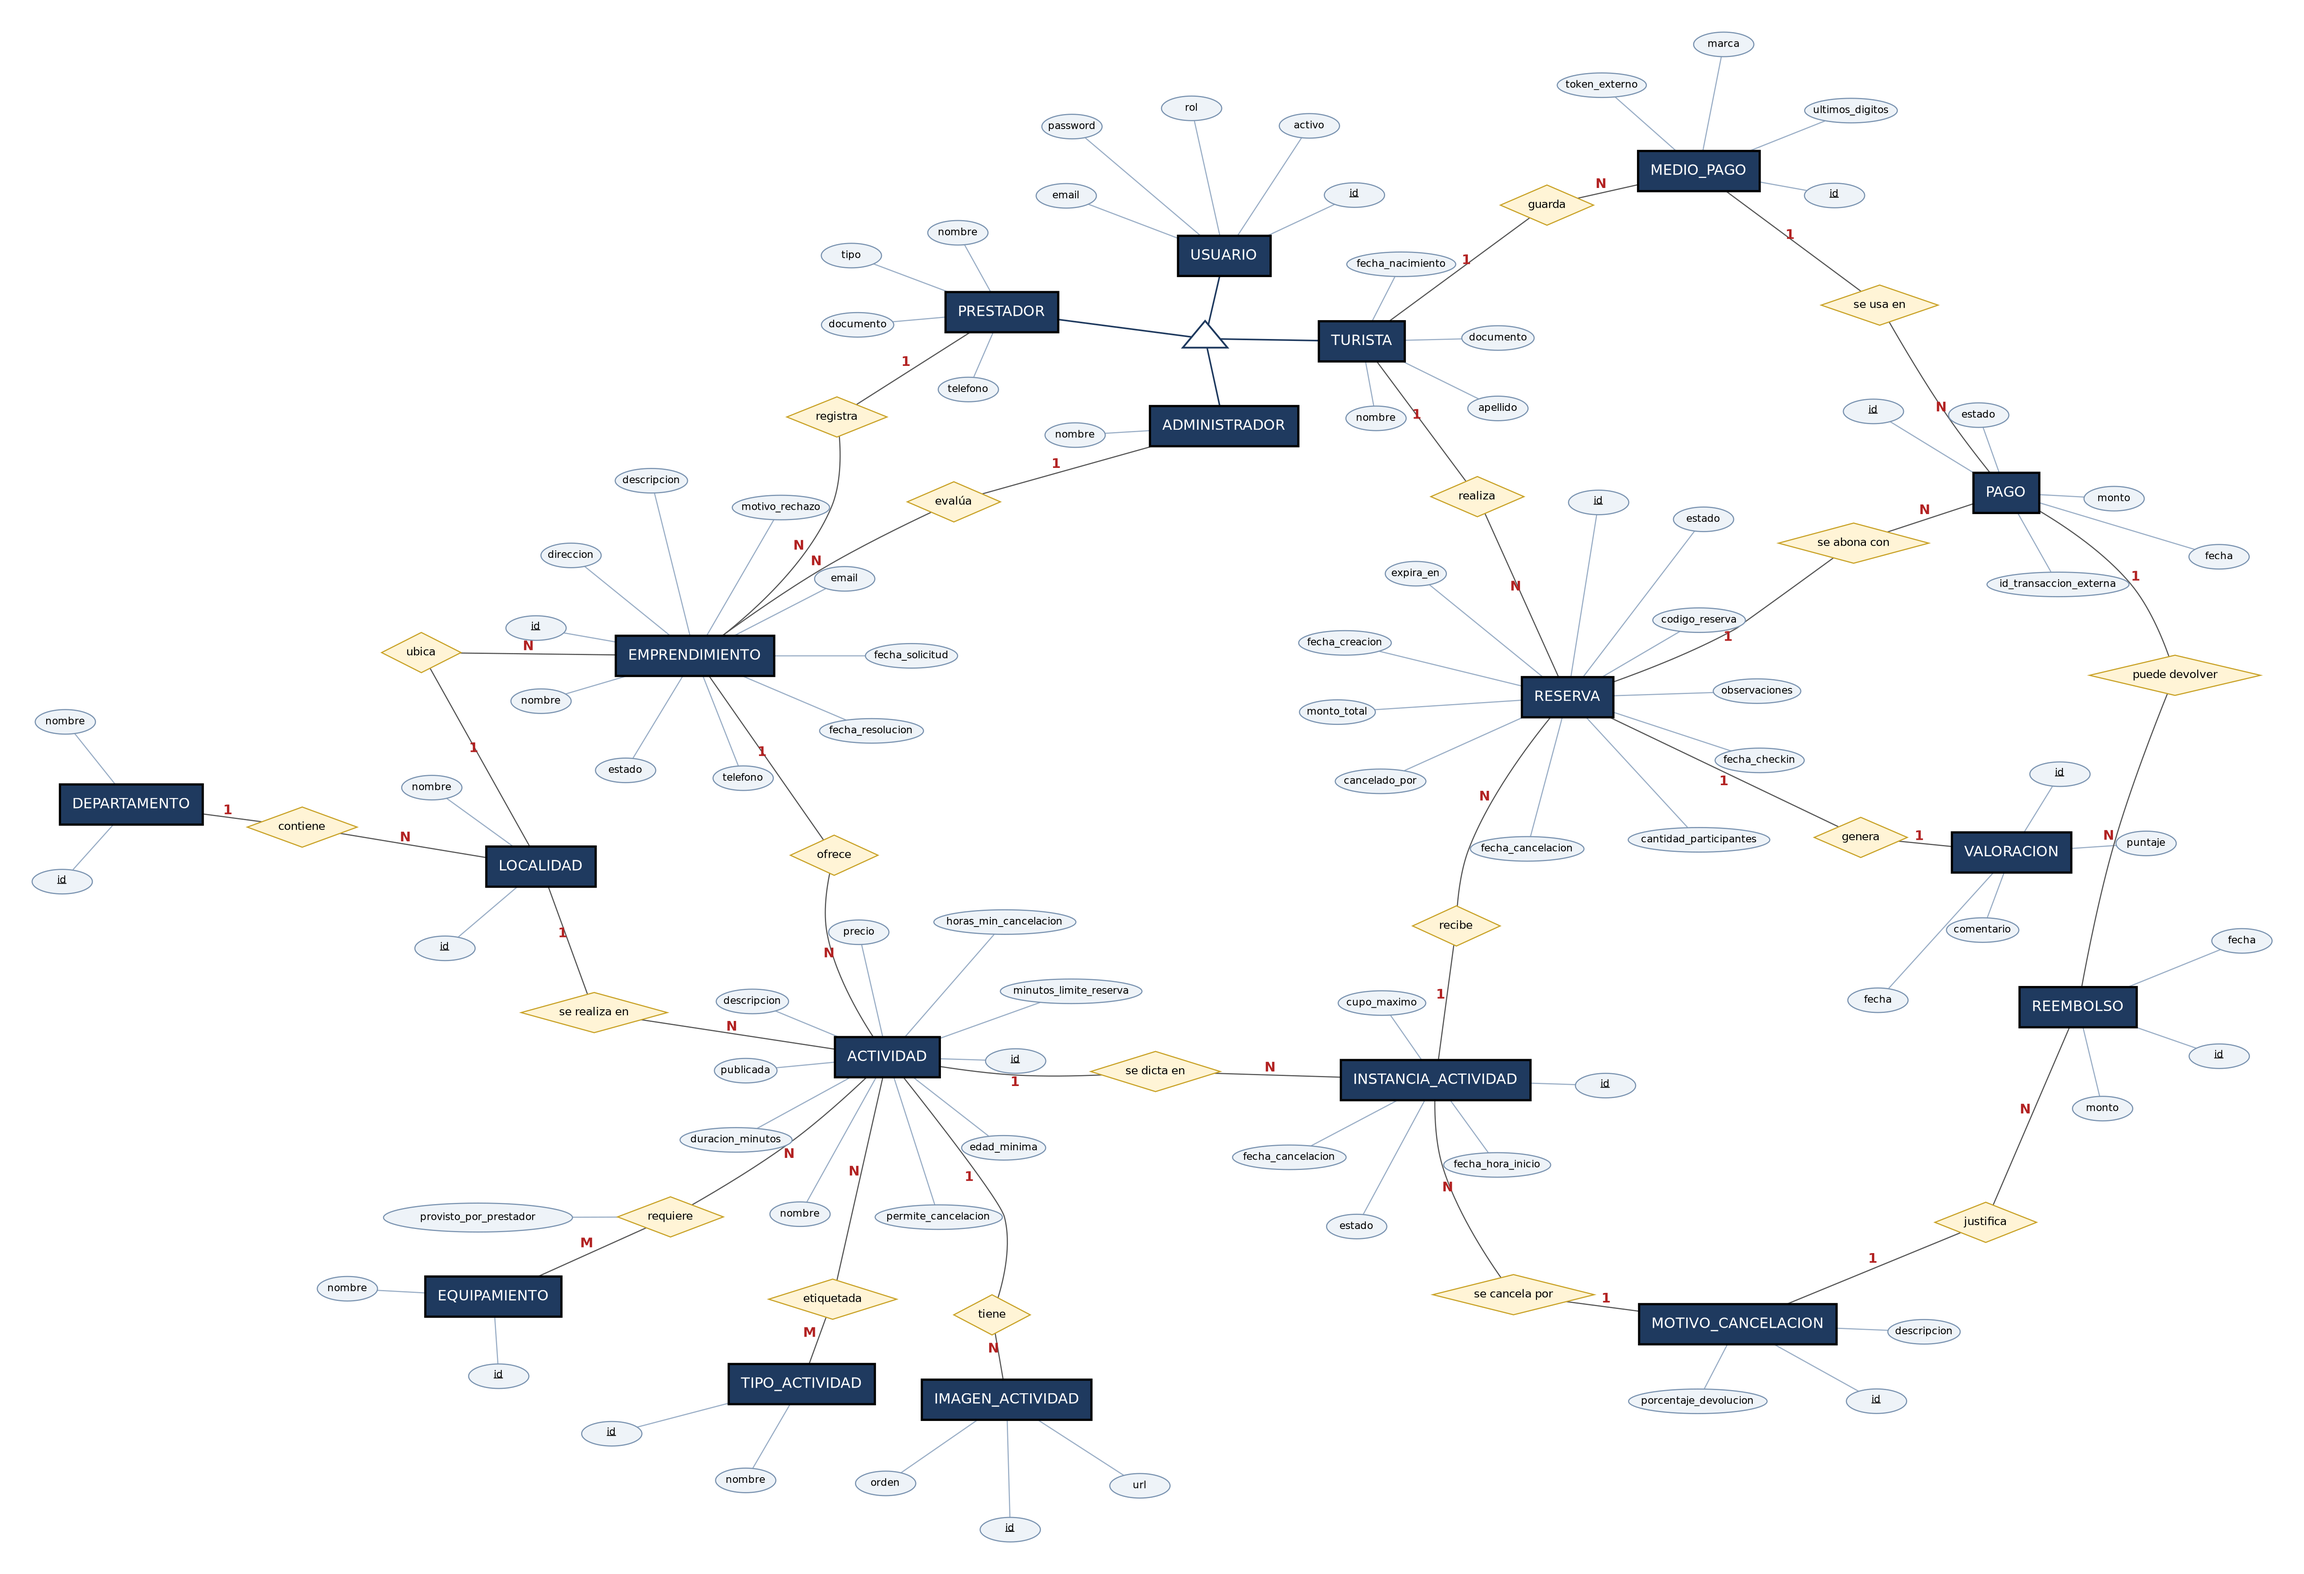
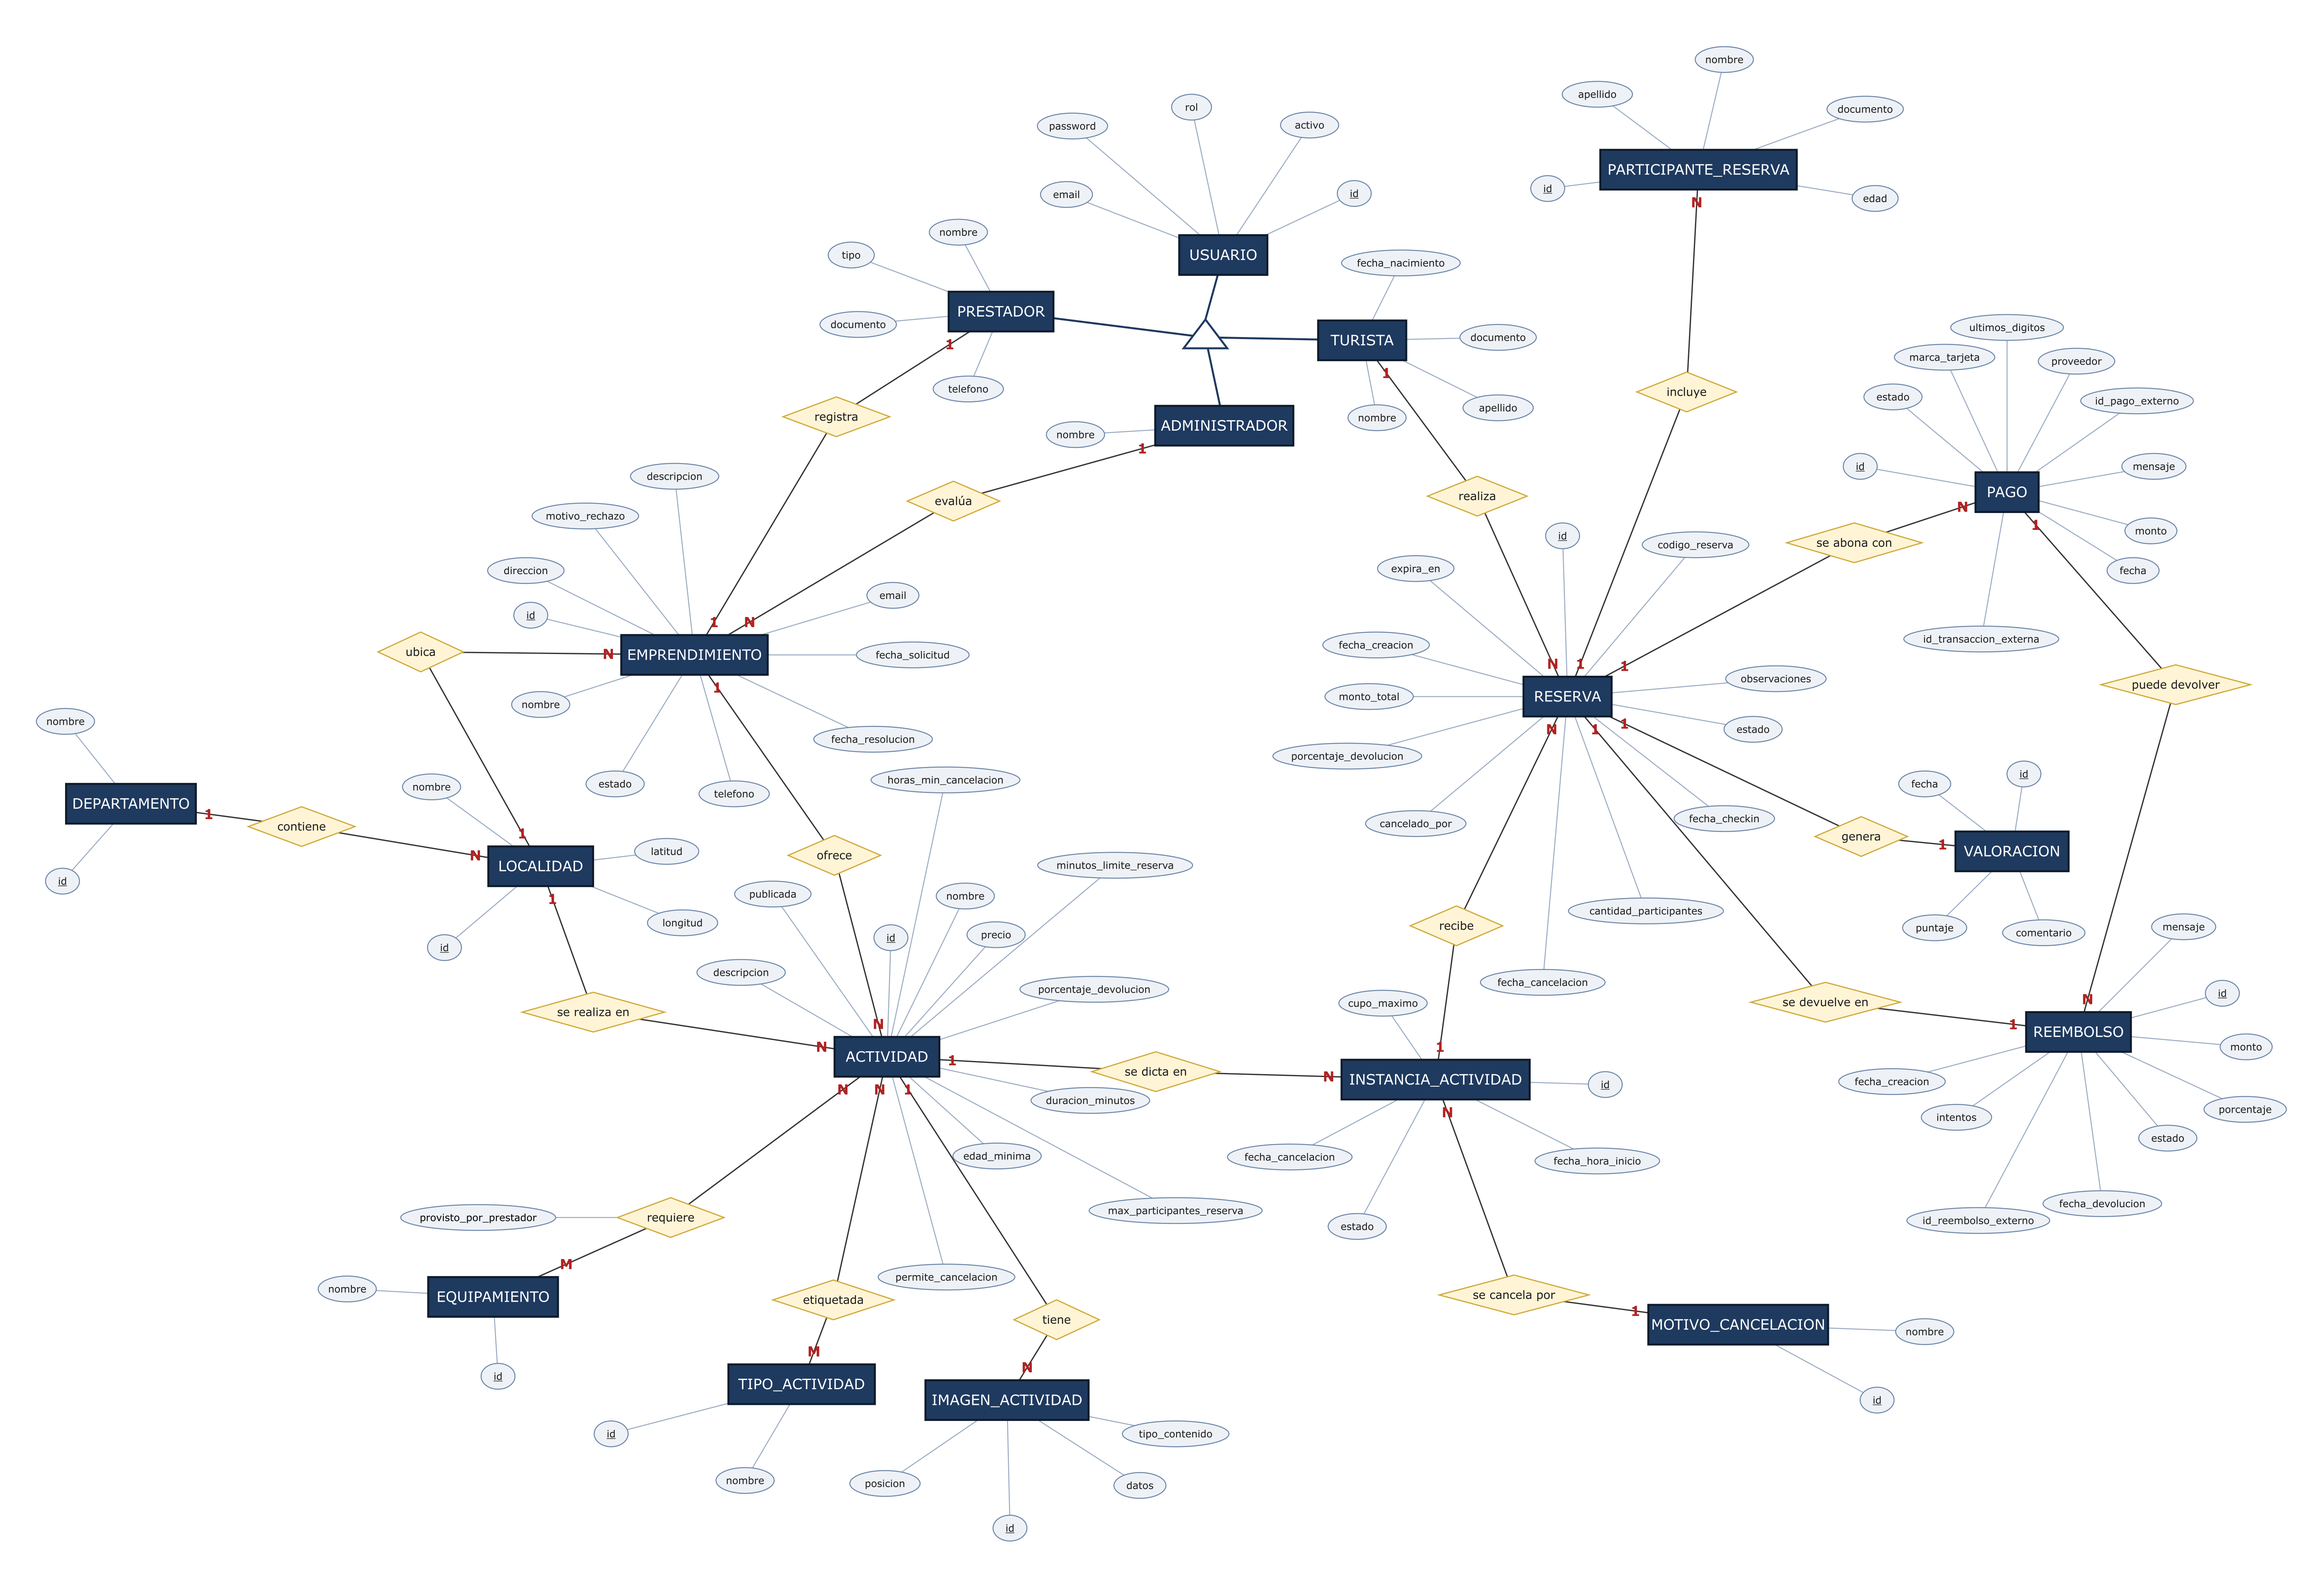
MER y modelo relacional iguales a las tablas del codigo
Sale MEDIO_PAGO (la tarjeta la maneja Mercado Pago) y entra PARTICIPANTE_RESERVA.
REEMBOLSO va con la reserva y el pago, sin motivo; MOTIVO_CANCELACION queda con id y nombre.
Se suman los campos que faltaban en LOCALIDAD, ACTIVIDAD, RESERVA, PAGO e IMAGEN_ACTIVIDAD.
La guia del codigo ya no dice que los reembolsos y las fotos faltan.

diff --git a/docs/GUIA_DEL_CODIGO.md b/docs/GUIA_DEL_CODIGO.md
@@ -347,7 +347,7 @@ Thymeleaf completa el HTML con los datos que el controller pone en el `Model`:
   - la tarjeta de actividad se escribe una vez y se usa en la portada y en el buscador;
   - la portada de cada actividad muestra la foto de su lugar (`static/img/lugares`) con un `th:switch` sobre el nombre de la localidad. Si el lugar no tiene foto, queda la portada de color según su tipo, con el atributo `data-type` que lee el CSS;
   - las fotos son de Wikimedia Commons con licencia libre (CC BY-SA): se pueden usar nombrando al autor y la licencia, y eso está en `/credits` (`credits.html`, con un link en el pie). Muestran el lugar, no al prestador ni su actividad;
-  - **Si preguntan por qué no es un campo de la base:** las fotos de cada actividad son IMAGEN_ACTIVIDAD del MER y todavía no están (ver 3.4). Mientras tanto, la foto del lugar es fija y no cambia la base.
+  - **Fotos del prestador:** si el prestador subió fotos de su actividad (IMAGEN_ACTIVIDAD del MER, clase `ActivityPhoto`, tabla `activity_photos`), la tarjeta muestra esas en lugar de la del lugar. Se guardan en la base (`ActivityPhotoService`) y se sirven en `/activities/{id}/photos/{n}`.
 
 **Filtro por localidad.** `ActivitySearchDTO.localityId` se aplica en el mismo stream que los otros filtros. Un script chico en `activities.html` deja en el desplegable solo las localidades del departamento elegido. `LocationService.getLocalitiesByDepartment` las trae en una sola consulta (`join fetch`), para no hacer una por departamento.
 
@@ -499,7 +499,8 @@ src/main/java/uy/edu/um/proyectotic2026/
 ├── config/        SecurityConfig (permisos y login) · DataLoader (datos de ejemplo)
 ├── entities/      Las tablas del MER: User, Tourist, Provider, Administrator, Business,
 │                  Department, Locality, Activity, ActivityInstance, ActivityType,
-│                  Equipment, ActivityEquipment, Booking, Payment, Rating + los enums de estados
+│                  Equipment, ActivityEquipment, ActivityPhoto, Booking, BookingParticipant,
+│                  Payment, Refund, Rating, CancellationReason + los enums de estados
 ├── repository/    Un JpaRepository por entidad
 ├── services/      Las reglas del negocio (una clase por tema)
 ├── controllers/   Web (@Controller) y API (@RestController)
@@ -557,8 +558,6 @@ src/main/resources/
 
 | Tema | Estado |
 |---|---|
-| **Reembolsos** (REEMBOLSO del MER) | Los motivos ya están. La devolución de la plata es lo próximo: 100 % si cancela el prestador y lo que él defina si cancela el turista. |
-| **Guardar el medio de pago del turista** (MEDIO_PAGO) | Está acordado en el acta (4.1), pero no es necesario para reservar. Es la próxima mejora. |
-| **Imágenes de las actividades** (IMAGEN_ACTIVIDAD) | Por ahora cada actividad muestra una foto de su lugar (fija, de Wikimedia Commons) o, si el lugar no tiene, una portada de color según su tipo. Falta que el prestador pueda subir las fotos de su actividad. |
+| **Guardar el medio de pago del turista** | Está en el acta (4.1), pero no es necesario para reservar: la tarjeta la maneja Mercado Pago y la plataforma no la guarda. Por eso no está en el MER. Es una mejora a futuro. |
 | **Mail de confirmación** | Se muestra en pantalla. Mandarlo de verdad necesita un servidor de correo (por ejemplo `spring-boot-starter-mail`). |
 | **Escanear el QR con la cámara** | El QR se genera. El prestador escribe el código; leerlo con la cámara del celular sería una mejora. |
